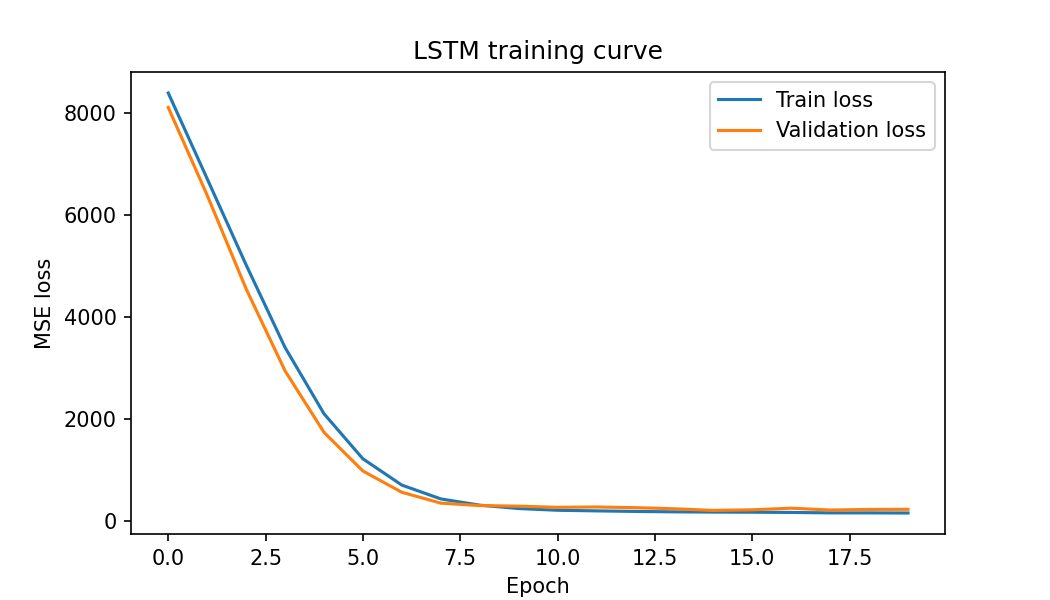
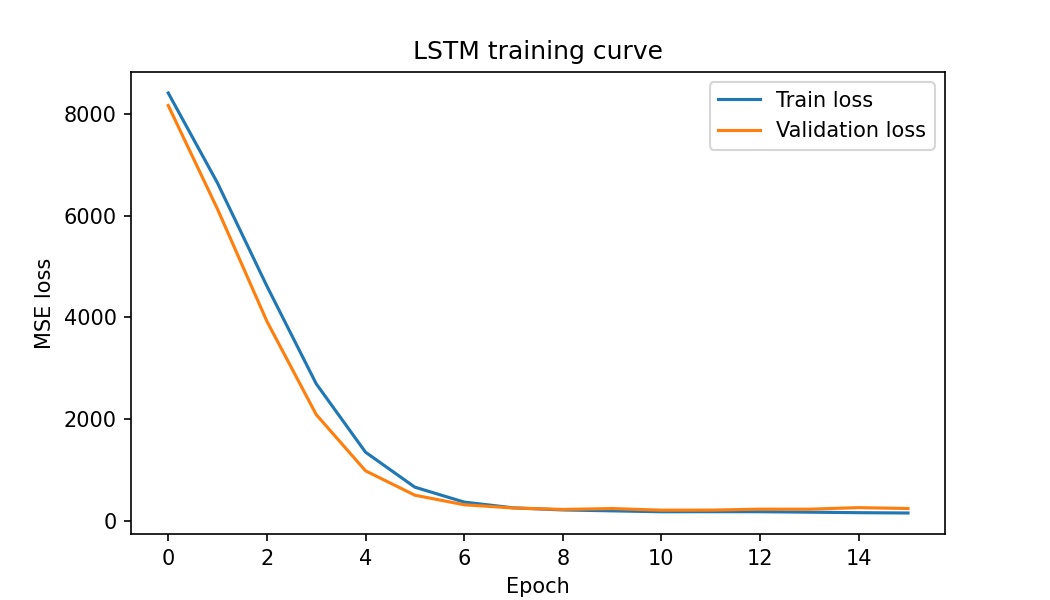
Add files via upload

diff --git a/app.py b/app.py
@@ -365,8 +365,8 @@ RETRIEVED TECHNICAL DIRECTIVES ({manual_entry['ata_chapter']}):
 {actions_formatted}
 
 REQUIRED TOOLING & CLEARANCES:
-  - Tools: {manual_entry['tools']}
-  - Compliance Sign-off Required prior to next flight cycle dispatch.
+  • Tools: {manual_entry['tools']}
+  • Compliance Sign-off Required prior to next flight cycle dispatch.
 ================================================================"""
     return work_order_text
 
